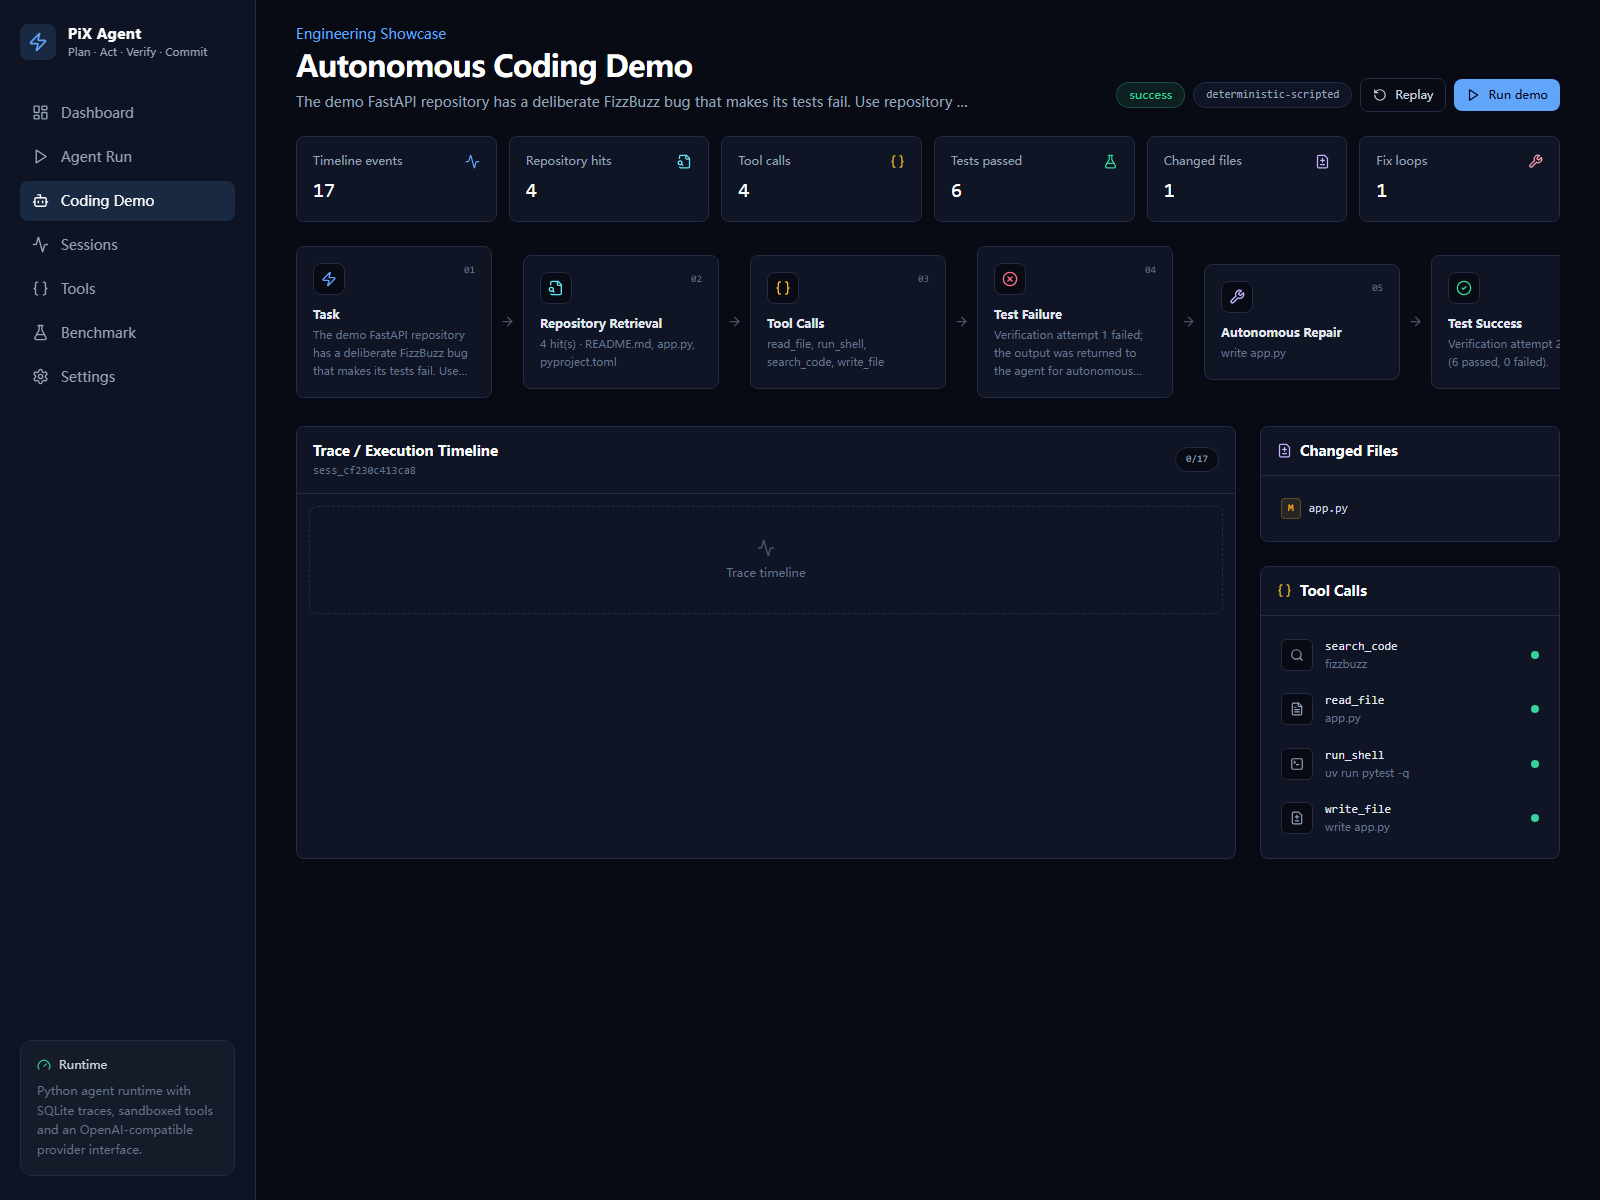
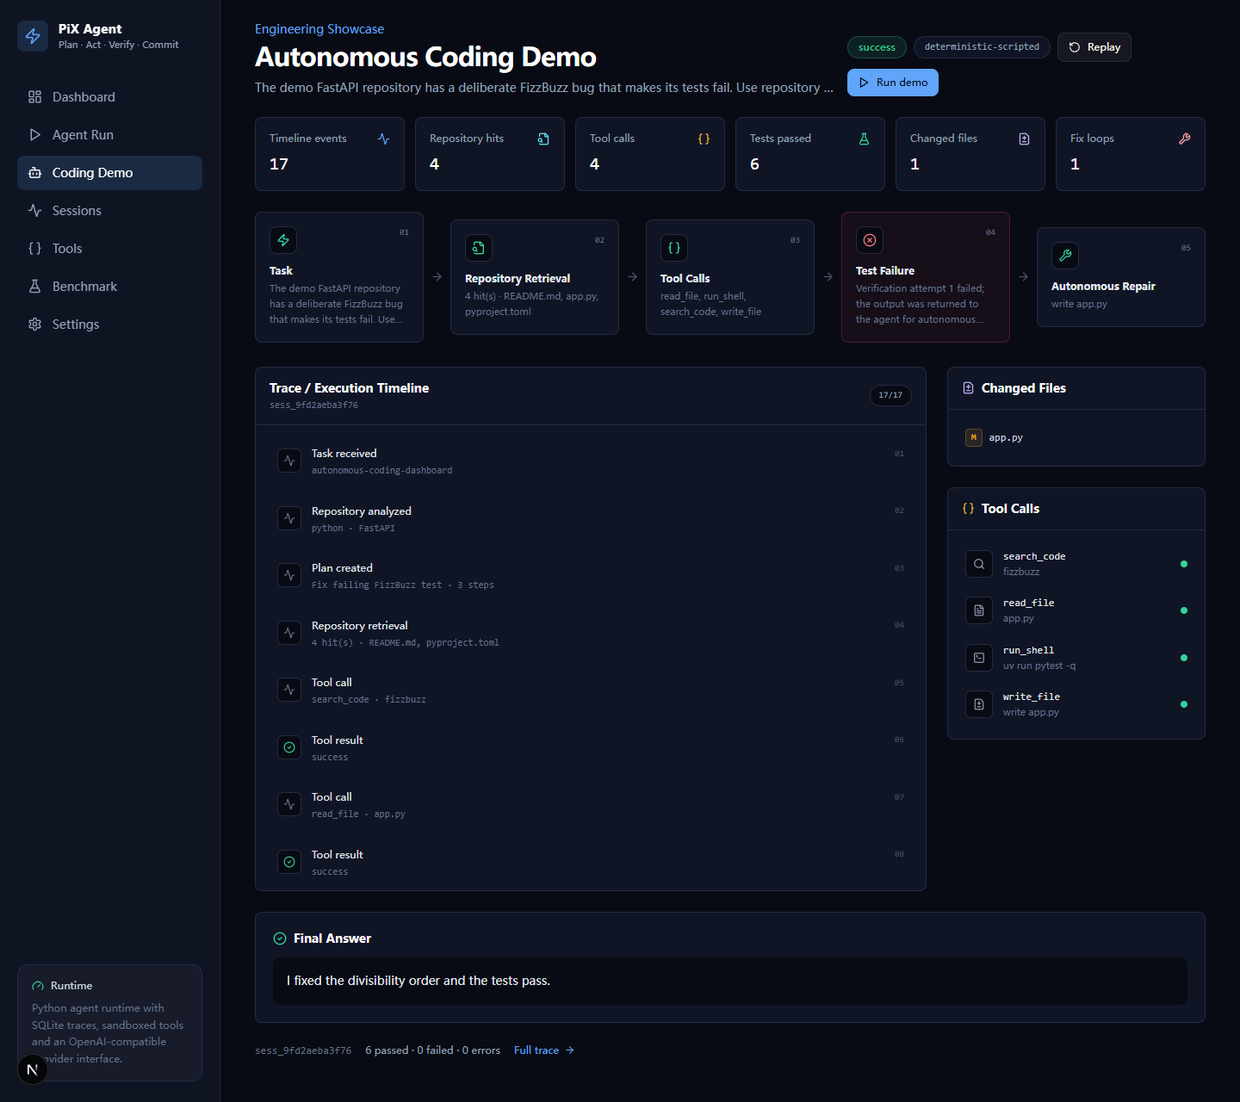
docs: add autonomous coding demo gif

diff --git a/README.zh-CN.md b/README.zh-CN.md
@@ -28,11 +28,19 @@
 > 打包使用成熟基础设施。
 
 <p align="center">
+  <img src="assets/pix-autonomous-coding-demo.gif" alt="PiX Autonomous Coding Demo 重放 Repository Retrieval、Test Failure、Autonomous Repair 与 Test Success" width="1240">
+</p>
+
+<p align="center">
+  <strong>Autonomous Coding Demo：</strong>确定性重放 Repository Retrieval、失败测试输出、Autonomous Repair 与最终测试通过。
+</p>
+
+<p align="center">
   <img src="assets/pix-dashboard.png" alt="PiX Autonomous Coding Dashboard 展示 Repository Retrieval、Tool Calling、Test Failure、Autonomous Repair 和 Test Success" width="1240">
 </p>
 
 <p align="center">
-  <strong>Dashboard Demo：</strong>运行 <code>bash scripts/coding-demo.sh</code>，然后在 Web Dashboard 打开 <code>http://localhost:3000/autonomous-coding</code>。
+  <strong>Dashboard 静态概览：</strong>运行 <code>bash scripts/coding-demo.sh</code>，然后在 Web Dashboard 打开 <code>http://localhost:3000/autonomous-coding</code>。
 </p>
 
 ---

diff --git a/README.md b/README.md
@@ -28,11 +28,19 @@ not a chat API wrapper.**
 > validation, SQLite, CLI, UI and packaging.
 
 <p align="center">
+  <img src="assets/pix-autonomous-coding-demo.gif" alt="PiX Autonomous Coding Demo replaying repository retrieval, test failure, autonomous repair and test success" width="1240">
+</p>
+
+<p align="center">
+  <strong>Autonomous Coding Demo:</strong> a deterministic replay of repository retrieval, failing test output, the repair loop and a passing rerun.
+</p>
+
+<p align="center">
   <img src="assets/pix-dashboard.png" alt="PiX Autonomous Coding Dashboard showing repository retrieval, tool calls, a failed test, autonomous repair and a passing rerun" width="1240">
 </p>
 
 <p align="center">
-  <strong>Dashboard Demo:</strong> run <code>bash scripts/coding-demo.sh</code>, then open <code>http://localhost:3000/autonomous-coding</code>.
+  <strong>Dashboard static overview:</strong> run <code>bash scripts/coding-demo.sh</code>, then open <code>http://localhost:3000/autonomous-coding</code>.
 </p>
 
 ---
